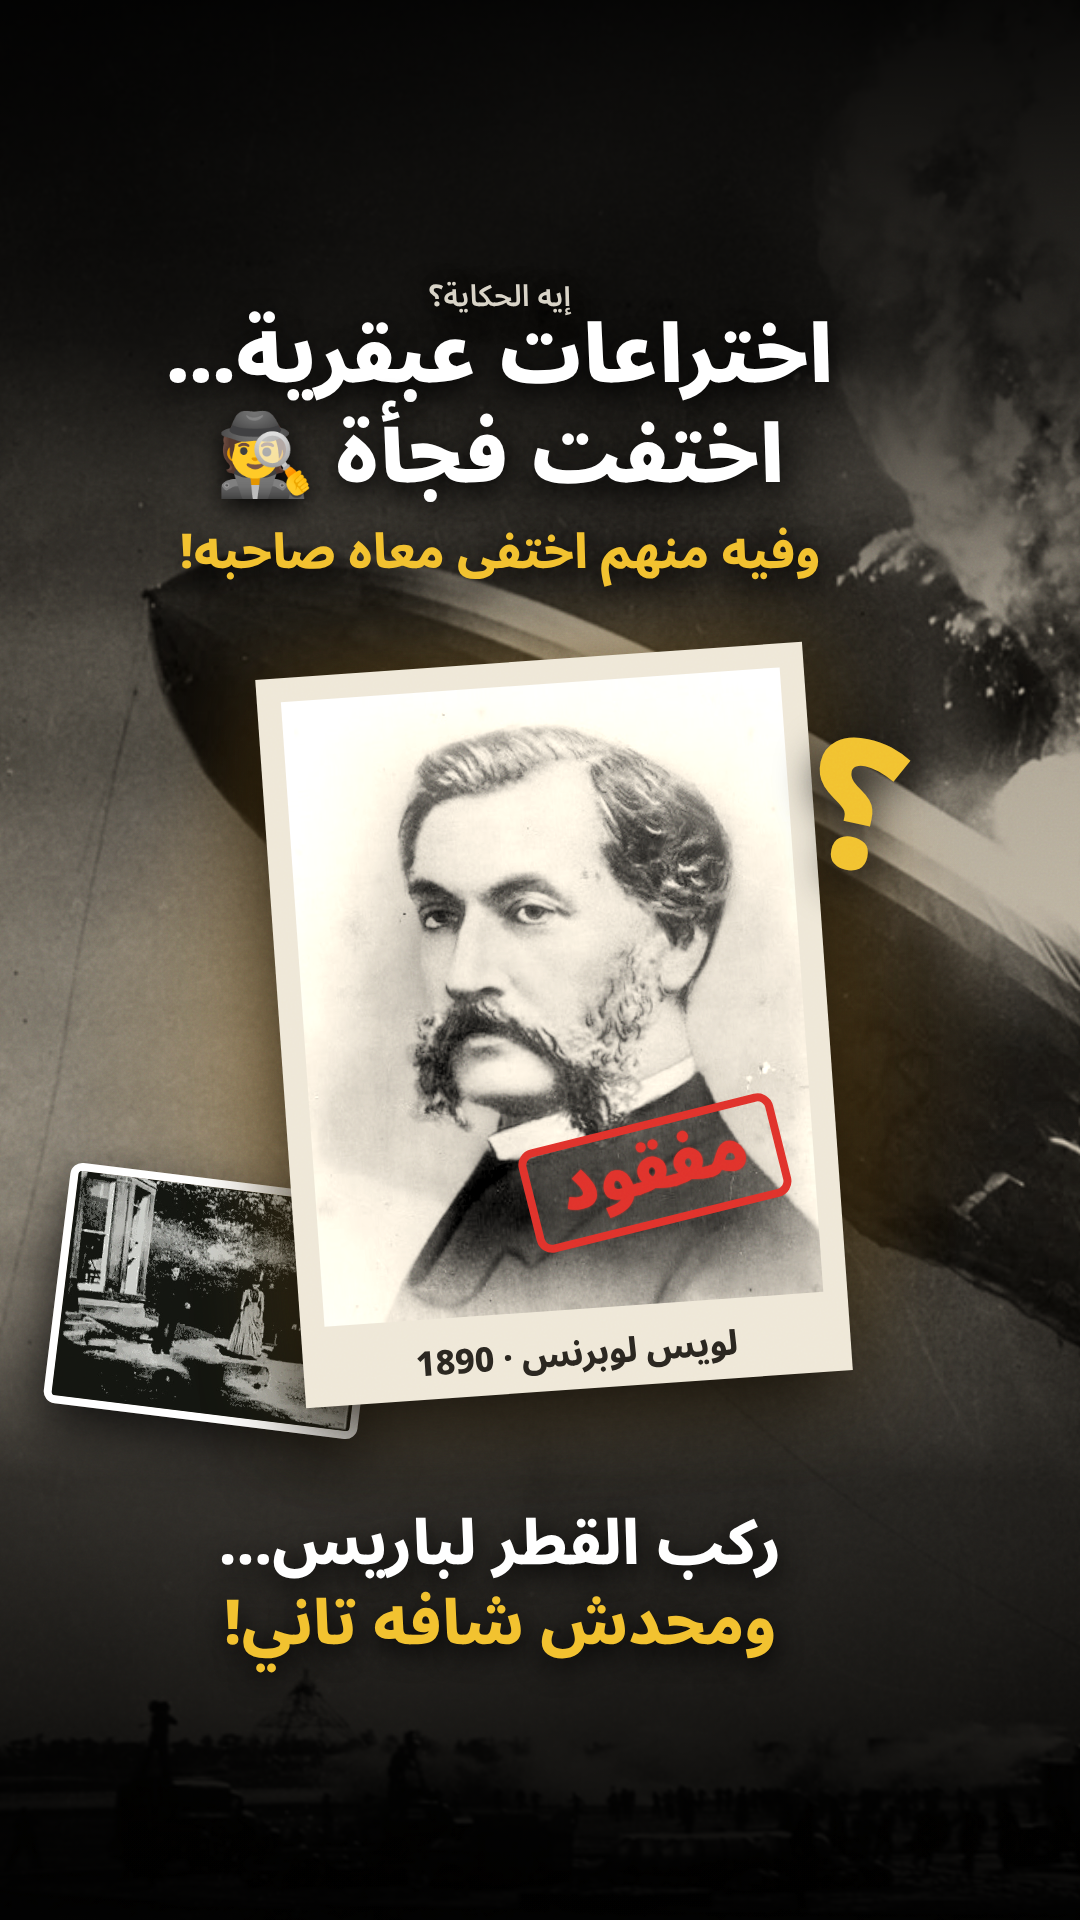
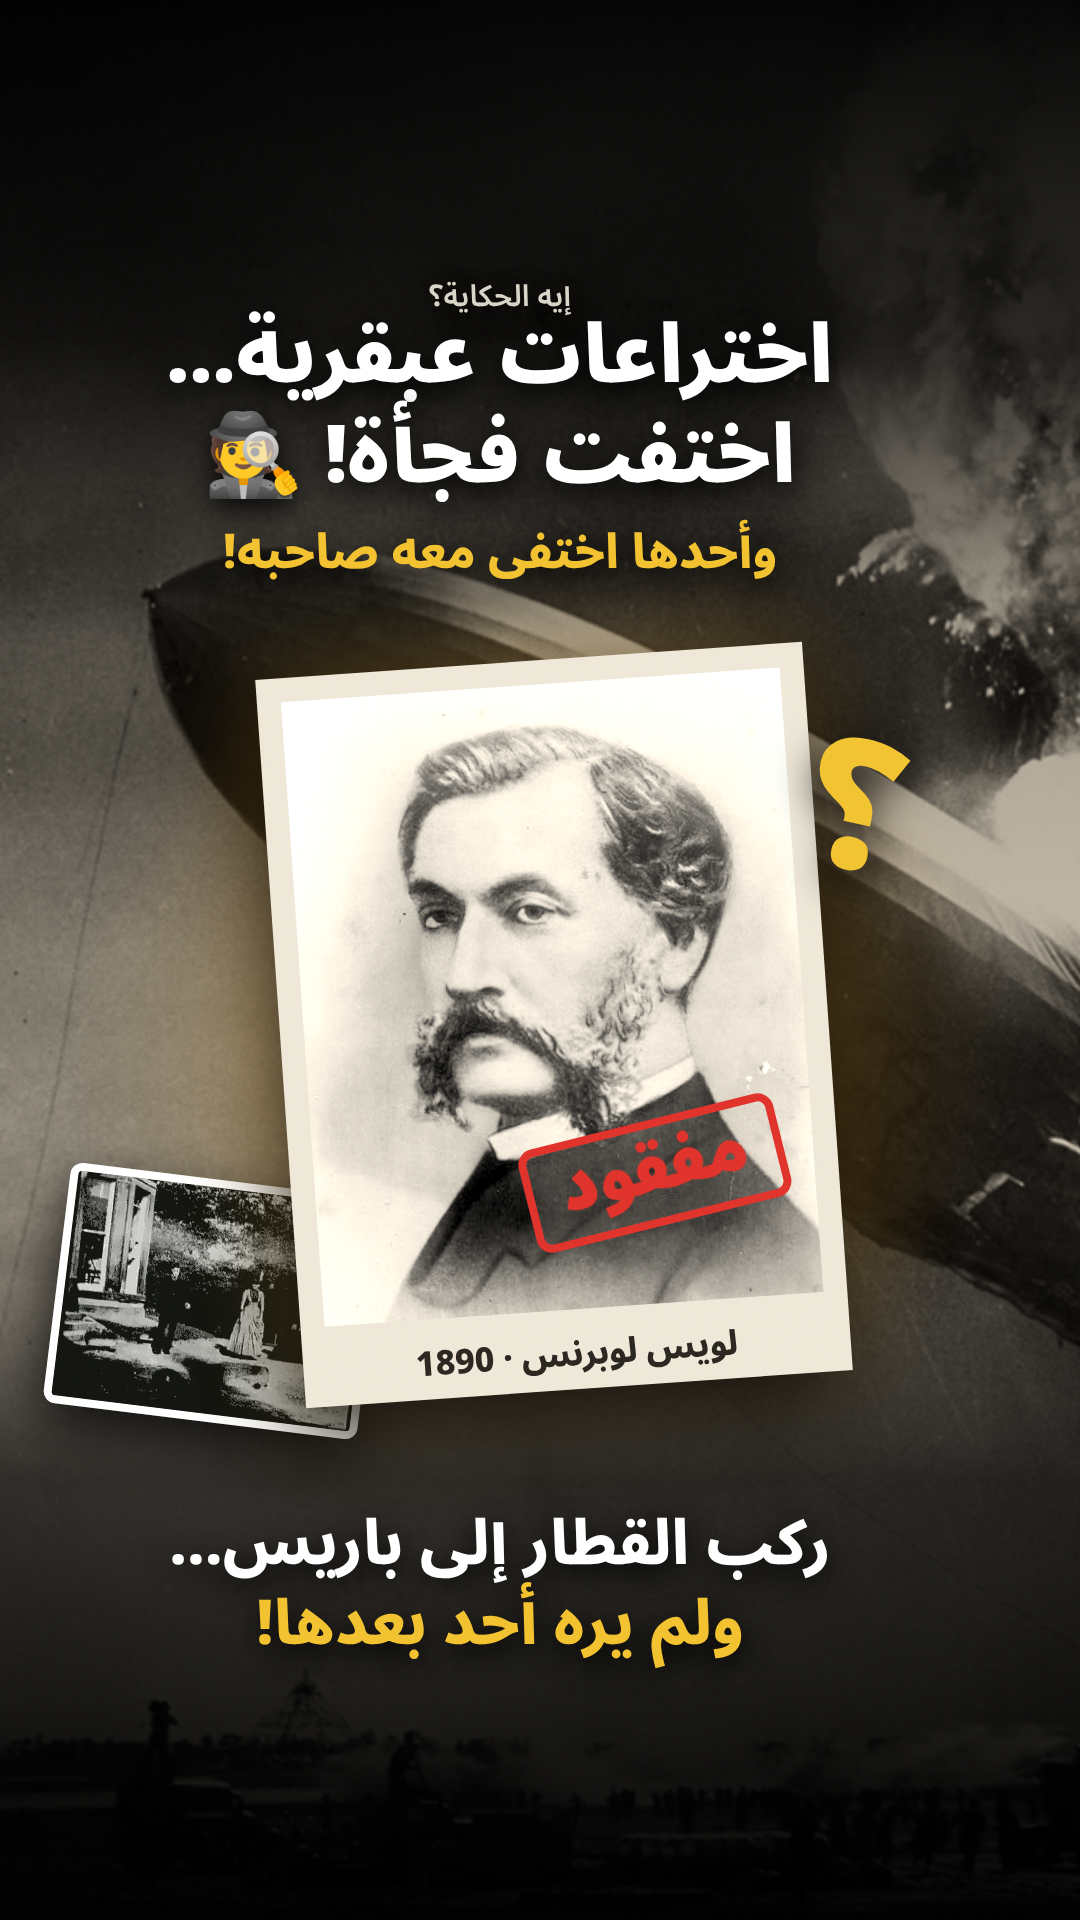
Vanished inventions: all on-screen text and cover in Modern Standard Arabic
Claude-Session: https://claude.ai/code/session_01E23g9YiLoYW6NJJsiPGyx2

Changed region(s): [[0.1833, 0.7812, 0.7639, 0.875], [0.1528, 0.1875, 0.7639, 0.3125]]

diff --git a/videos/vanished-inventions/list/list.js b/videos/vanished-inventions/list/list.js
@@ -2,30 +2,30 @@
 // Only the inventions the user sent photos for (the user's rule: don't search for photos or items).
 window.LIST = {
   dur: 10,   // 5 s per photo (the user's choice)
-  intro: { frames: 153, fps: 30, title: "اختراعات عبقرية…\nاختفت فجأة 🕵", top: 52, shift: 0 },
+  intro: { frames: 153, fps: 30, title: "اختراعات عبقرية…\nاختفت فجأة! 🕵", top: 52, shift: 0 },
   items: [
-    { emoji: "🎥", title: "ركب القطر… ومنزلش", photo: ["photos/01a-le-prince.jpg", "photos/01b-roundhay-1888.jpg"], labels: ["لويس لوبرنس", "لقطة من فيلمه سنة 1888"],
-      body: "لويس لوبرنس صوّر أول فيلم متحرك سنة 1888، وبعدها بسنتين ركب قطر لباريس… والقطر وصل من غيره!" },
-    { emoji: "🥂", title: "إزاز مبيتكسرش", photo: ["photos/03a-roman-head.jpg", "photos/03b-roman-glass.jpg"], labels: ["تمثال روماني قديم", "كاس إزاز روماني قديم"],
-      body: "الحكاية بتقول إن صانع ورّا الإمبراطور طبريوس كاس بيتني ومبيتكسرش… فأمر بقطع راسه عشان السر يموت معاه!" },
-    { emoji: "🛡", title: "مادة مبتتحرقش", photo: ["photos/05a-starlite.jpg", "photos/05b-starlite-egg.jpg"], labels: ["موريس وارد وستارلايت", "بيضة متغطية بستارلايت قدام اللهب"],
-      body: "حلاق إنجليزي اخترع «ستارلايت» اللي بتستحمل نار رهيبة… ومات سنة 2011 والتركيبة عمرها ما اتنشرت!" },
-    { emoji: "🎈", title: "فنادق بتطير", photo: ["photos/11a-hindenburg.jpg", "photos/11b-hindenburg-fire.jpg"], labels: ["هيندنبورج قبل الكارثة", "لحظة الحريق سنة 1937"],
-      body: "منطاد هيندنبورج كان بيعدّي المحيط بالركاب، واتحرق في ثواني سنة 1937… ولحد النهارده الشرارة الأولى لغز!" },
-    { emoji: "🔥", title: "نار بتولع فوق المية", photo: ["photos/02a-greek-fire.jpg", "photos/02b-greek-fire.jpg"], labels: ["رسمة حديثة للنار الإغريقية", "رسمة حديثة لسفينة بيزنطية"],
-      body: "البيزنطيين حرقوا بيها أساطيل كاملة، والمية مكانتش بتطفيها… وسرّها كان متخبي لدرجة إنه ضاع معاهم!" },
-    { emoji: "🔌", title: "العربية الكهربا اللي اتفرمت", photo: ["photos/08a-ev1.jpg", "photos/08b-ev1.jpg"], labels: ["عربية EV1", "EV1 وهي بتتشحن"],
-      body: "جنرال موتورز عملت 1117 عربية كهربا، والناس حبتها… وسنة 2003 سحبتهم كلهم من الناس وفرمتهم!" },
-    { emoji: "✈", title: "عربية بموتور طيارة", photo: ["photos/07a-chrysler-turbine.jpg", "photos/07b-chrysler-turbine.jpg"], labels: ["صورة قديمة لكرايسلر التوربين", "كرايسلر التوربين بلونها البرونزي"],
-      body: "كرايسلر عملت 55 عربية بموتور توربين سنة 1963 واداتها للناس تجربها… وبعدين فرمت أغلبهم، وفاضل 9 بس!" },
-    { emoji: "⚔", title: "صلب دمشق الأسطوري", photo: ["photos/04a-damascus.jpg", "photos/04b-damascus.jpg"], labels: ["نقشة الصلب الدمشقي", "سكاكين حديثة بنقشة دمشقي"],
-      body: "حدادين دمشق عملوا صلب أسطوري، وفجأة في القرن الـ18 الطريقة اختفت… ولحد النهارده محدش رجّعها بالظبط!" },
-    { emoji: "🎻", title: "سر ستراديفاري", photo: ["photos/09a-stradivari.jpg", "photos/09b-stradivari-workshop.jpg"], labels: ["رسمة قديمة لستراديفاري", "رسمة لستراديفاري في ورشته"],
-      body: "كمانجات ستراديفاري بتتباع بملايين، وهو مات سنة 1737… والعلماء لسه مختلفين إيه اللي مخلي صوتها كده!" },
-    { emoji: "🫘", title: "عربية من فول الصويا", photo: ["photos/06a-soybean-car.jpg", "photos/06b-soybean-car.jpg"], labels: ["عربية فول الصويا وهنري فورد 1941", "عربية فول الصويا سنة 1941"],
-      body: "هنري فورد عرض سنة 1941 عربية جسمها بلاستيك زراعي… وبعدها العربية اتكسرت ومحدش يعرف تركيبتها بالظبط!" },
-    { emoji: "🏺", title: "كاس بيغيّر لونه", photo: ["photos/10a-lycurgus-green.jpg", "photos/10b-lycurgus-red.jpg"], labels: ["الكاس والنور عليه من بره", "نفس الكاس والنور من جواه"],
-      body: "كاس روماني عمره 1600 سنة أخضر، ولما النور يعدّي منه يبقى أحمر… والسر طلع ذرات دهب وفضة متناهية الصغر!" }
+    { emoji: "🎥", title: "ركب القطار… ولم ينزل منه", photo: ["photos/01a-le-prince.jpg", "photos/01b-roundhay-1888.jpg"], labels: ["لويس لوبرنس", "لقطة من فيلمه عام 1888"],
+      body: "صوّر لويس لوبرنس أول فيلم متحرك عام 1888، وبعد عامين ركب قطارًا إلى باريس… فوصل القطار من دونه!" },
+    { emoji: "🥂", title: "زجاج لا ينكسر", photo: ["photos/03a-roman-head.jpg", "photos/03b-roman-glass.jpg"], labels: ["تمثال روماني قديم", "كأس زجاجية رومانية قديمة"],
+      body: "تروي الحكاية أن صانعًا عرض على الإمبراطور طيباريوس كأسًا تنثني ولا تنكسر… فأمر بقطع رأسه ليموت السر معه!" },
+    { emoji: "🛡", title: "مادة لا تحترق", photo: ["photos/05a-starlite.jpg", "photos/05b-starlite-egg.jpg"], labels: ["موريس وارد وستارلايت", "بيضة مغطاة بستارلايت أمام اللهب"],
+      body: "اخترع حلاق إنجليزي مادة «ستارلايت» التي تتحمل لهبًا هائلًا… ومات عام 2011 دون أن ينشر تركيبتها!" },
+    { emoji: "🎈", title: "فندق طائر", photo: ["photos/11a-hindenburg.jpg", "photos/11b-hindenburg-fire.jpg"], labels: ["هيندنبورج قبل الكارثة", "لحظة الحريق عام 1937"],
+      body: "كان منطاد هيندنبورج يعبر المحيط بالركاب، واحترق في ثوانٍ عام 1937… وما زالت الشرارة الأولى لغزًا حتى اليوم!" },
+    { emoji: "🔥", title: "نار تشتعل فوق الماء", photo: ["photos/02a-greek-fire.jpg", "photos/02b-greek-fire.jpg"], labels: ["رسم حديث للنار الإغريقية", "رسم حديث لسفينة بيزنطية"],
+      body: "أحرق بها البيزنطيون أساطيل كاملة، ولم يكن الماء يطفئها… وكان سرّها مكتومًا لدرجة أنه ضاع معهم!" },
+    { emoji: "🔌", title: "السيارة الكهربائية التي سُحقت", photo: ["photos/08a-ev1.jpg", "photos/08b-ev1.jpg"], labels: ["سيارة EV1", "سيارة EV1 أثناء الشحن"],
+      body: "صنعت جنرال موتورز 1117 سيارة كهربائية أحبها الناس… وفي عام 2003 سحبتها كلها منهم وسحقتها!" },
+    { emoji: "✈", title: "سيارة بمحرك طائرة", photo: ["photos/07a-chrysler-turbine.jpg", "photos/07b-chrysler-turbine.jpg"], labels: ["صورة قديمة لسيارة كرايسلر التوربينية", "كرايسلر التوربينية بلونها البرونزي"],
+      body: "صنعت كرايسلر 55 سيارة بمحرك توربيني عام 1963 ليجربها الناس… ثم سحقت أغلبها، ولم يبقَ إلا 9!" },
+    { emoji: "⚔", title: "فولاذ دمشق الأسطوري", photo: ["photos/04a-damascus.jpg", "photos/04b-damascus.jpg"], labels: ["نقشة الفولاذ الدمشقي", "سكاكين حديثة بنقشة دمشقية"],
+      body: "صنع حدادو دمشق فولاذًا أسطوريًا، ثم اختفت طريقته في القرن الـ18… ولم يُعِدها أحد بدقة حتى اليوم!" },
+    { emoji: "🎻", title: "سر ستراديفاري", photo: ["photos/09a-stradivari.jpg", "photos/09b-stradivari-workshop.jpg"], labels: ["لوحة قديمة لستراديفاري", "رسم لستراديفاري في ورشته"],
+      body: "تُباع كمنجات ستراديفاري بالملايين، وقد مات عام 1737… وما زال العلماء مختلفين في سر صوتها!" },
+    { emoji: "🫘", title: "سيارة من فول الصويا", photo: ["photos/06a-soybean-car.jpg", "photos/06b-soybean-car.jpg"], labels: ["سيارة فول الصويا وهنري فورد 1941", "سيارة فول الصويا عام 1941"],
+      body: "عرض هنري فورد عام 1941 سيارة هيكلها من بلاستيك زراعي… ثم دُمّرت، ولا أحد يعرف تركيبتها بدقة!" },
+    { emoji: "🏺", title: "كأس تغيّر لونها", photo: ["photos/10a-lycurgus-green.jpg", "photos/10b-lycurgus-red.jpg"], labels: ["الكأس والضوء عليها من الخارج", "الكأس نفسها والضوء من داخلها"],
+      body: "كأس رومانية عمرها 1600 عام، خضراء… وحين يعبرها الضوء تصير حمراء، والسر ذرات ذهب وفضة دقيقة!" }
   ],
-  outro: { title: "تفتكر اختفوا صدفة… ولا حد كان عايزهم يختفوا؟ 🤔", sub: "قولنا في الكومنتات 👇 وتابع عشان الجزء التاني!", photo: "photos/01a-le-prince.jpg", labels: ["لويس لوبرنس"] }
+  outro: { title: "هل اختفت صدفة… أم أراد أحدٌ إخفاءها؟ 🤔", sub: "أخبرونا في التعليقات 👇 وتابعونا ليصلكم الجزء الثاني!", photo: "photos/01a-le-prince.jpg", labels: ["لويس لوبرنس"] }
 };

diff --git a/brand/eh-elhekaya/cover-vanished-inventions-tiktok.html b/brand/eh-elhekaya/cover-vanished-inventions-tiktok.html
@@ -38,8 +38,8 @@
   <div class="q">؟</div>
   <div class="grain"></div>
   <p class="t" style="top:132px;font:600 15px 'Noto Sans Arabic';color:#d9d4c8">إيه الحكاية؟</p>
-  <p class="t" style="top:154px;font:900 40px/1.25 'Noto Sans Arabic';color:#fff">اختراعات عبقرية…<br>اختفت فجأة 🕵</p>
-  <p class="t" style="top:262px;font:800 24px/1.25 'Noto Sans Arabic';color:#f2c230">وفيه منهم اختفى معاه صاحبه!</p>
-  <p class="t" style="top:752px;font:800 31px/1.3 'Noto Sans Arabic';color:#fff">ركب القطر لباريس…<br><span style="color:#f2c230">ومحدش شافه تاني!</span></p>
+  <p class="t" style="top:154px;font:900 40px/1.25 'Noto Sans Arabic';color:#fff">اختراعات عبقرية…<br>اختفت فجأة! 🕵</p>
+  <p class="t" style="top:262px;font:800 24px/1.25 'Noto Sans Arabic';color:#f2c230">وأحدها اختفى معه صاحبه!</p>
+  <p class="t" style="top:752px;font:800 31px/1.3 'Noto Sans Arabic';color:#fff">ركب القطار إلى باريس…<br><span style="color:#f2c230">ولم يره أحد بعدها!</span></p>
 </div>
 </body></html>

diff --git a/.claude/skills/photos/SKILL.md b/.claude/skills/photos/SKILL.md
@@ -32,7 +32,11 @@ Lists of surprising true stories: «أخطاء غيّرت العالم», «اخ
 اتمنعت زمان», «أغرب أسباب حروب». Each item needs a real photo (a person, an object, a place or an old document). If the topic
 is "how does X work", say the animation style fits better.
 
-## 3. The items → `videos/<slug>/list/list.js`
+## 3. The items
+
+**Language: Modern Standard Arabic (الفصحى) for every word on screen** (the user's rule, to reach all Arab viewers):
+simple, vivid فصحى, e.g. «ركب القطار… ولم ينزل منه», «أخبرونا في التعليقات 👇 وتابعونا ليصلكم الجزء الثاني!».
+ → `videos/<slug>/list/list.js`
 
 - Hook (opening card): short, ends with one emoji («أخطاء صغيرة غيّرت العالم 😱»). If it's part two, add «(الجزء التاني)».
 - Each item:

diff --git a/CLAUDE.md b/CLAUDE.md
@@ -26,6 +26,9 @@ For the animation style, ask once per topic: quick mode (default) or full checks
 
 ## «الصور» rules the user set
 
+- **All on-screen text in Modern Standard Arabic (الفصحى)**: titles, cards, labels, closing card and cover, so it reaches
+  every Arab viewer (the user's rule). Keep it simple and gripping, not stiff; replies to the user stay in Egyptian Arabic.
+
 - Opening: one of the user's own clips in `videos/_intros/` (see its README: 6 clips, where to cut each, which topics fit).
   Pick one that suits the topic, don't repeat the last video's clip, and say which one. Clips 3–6 end with a hand over the
   lens: cut there so it dissolves into the first photo.
